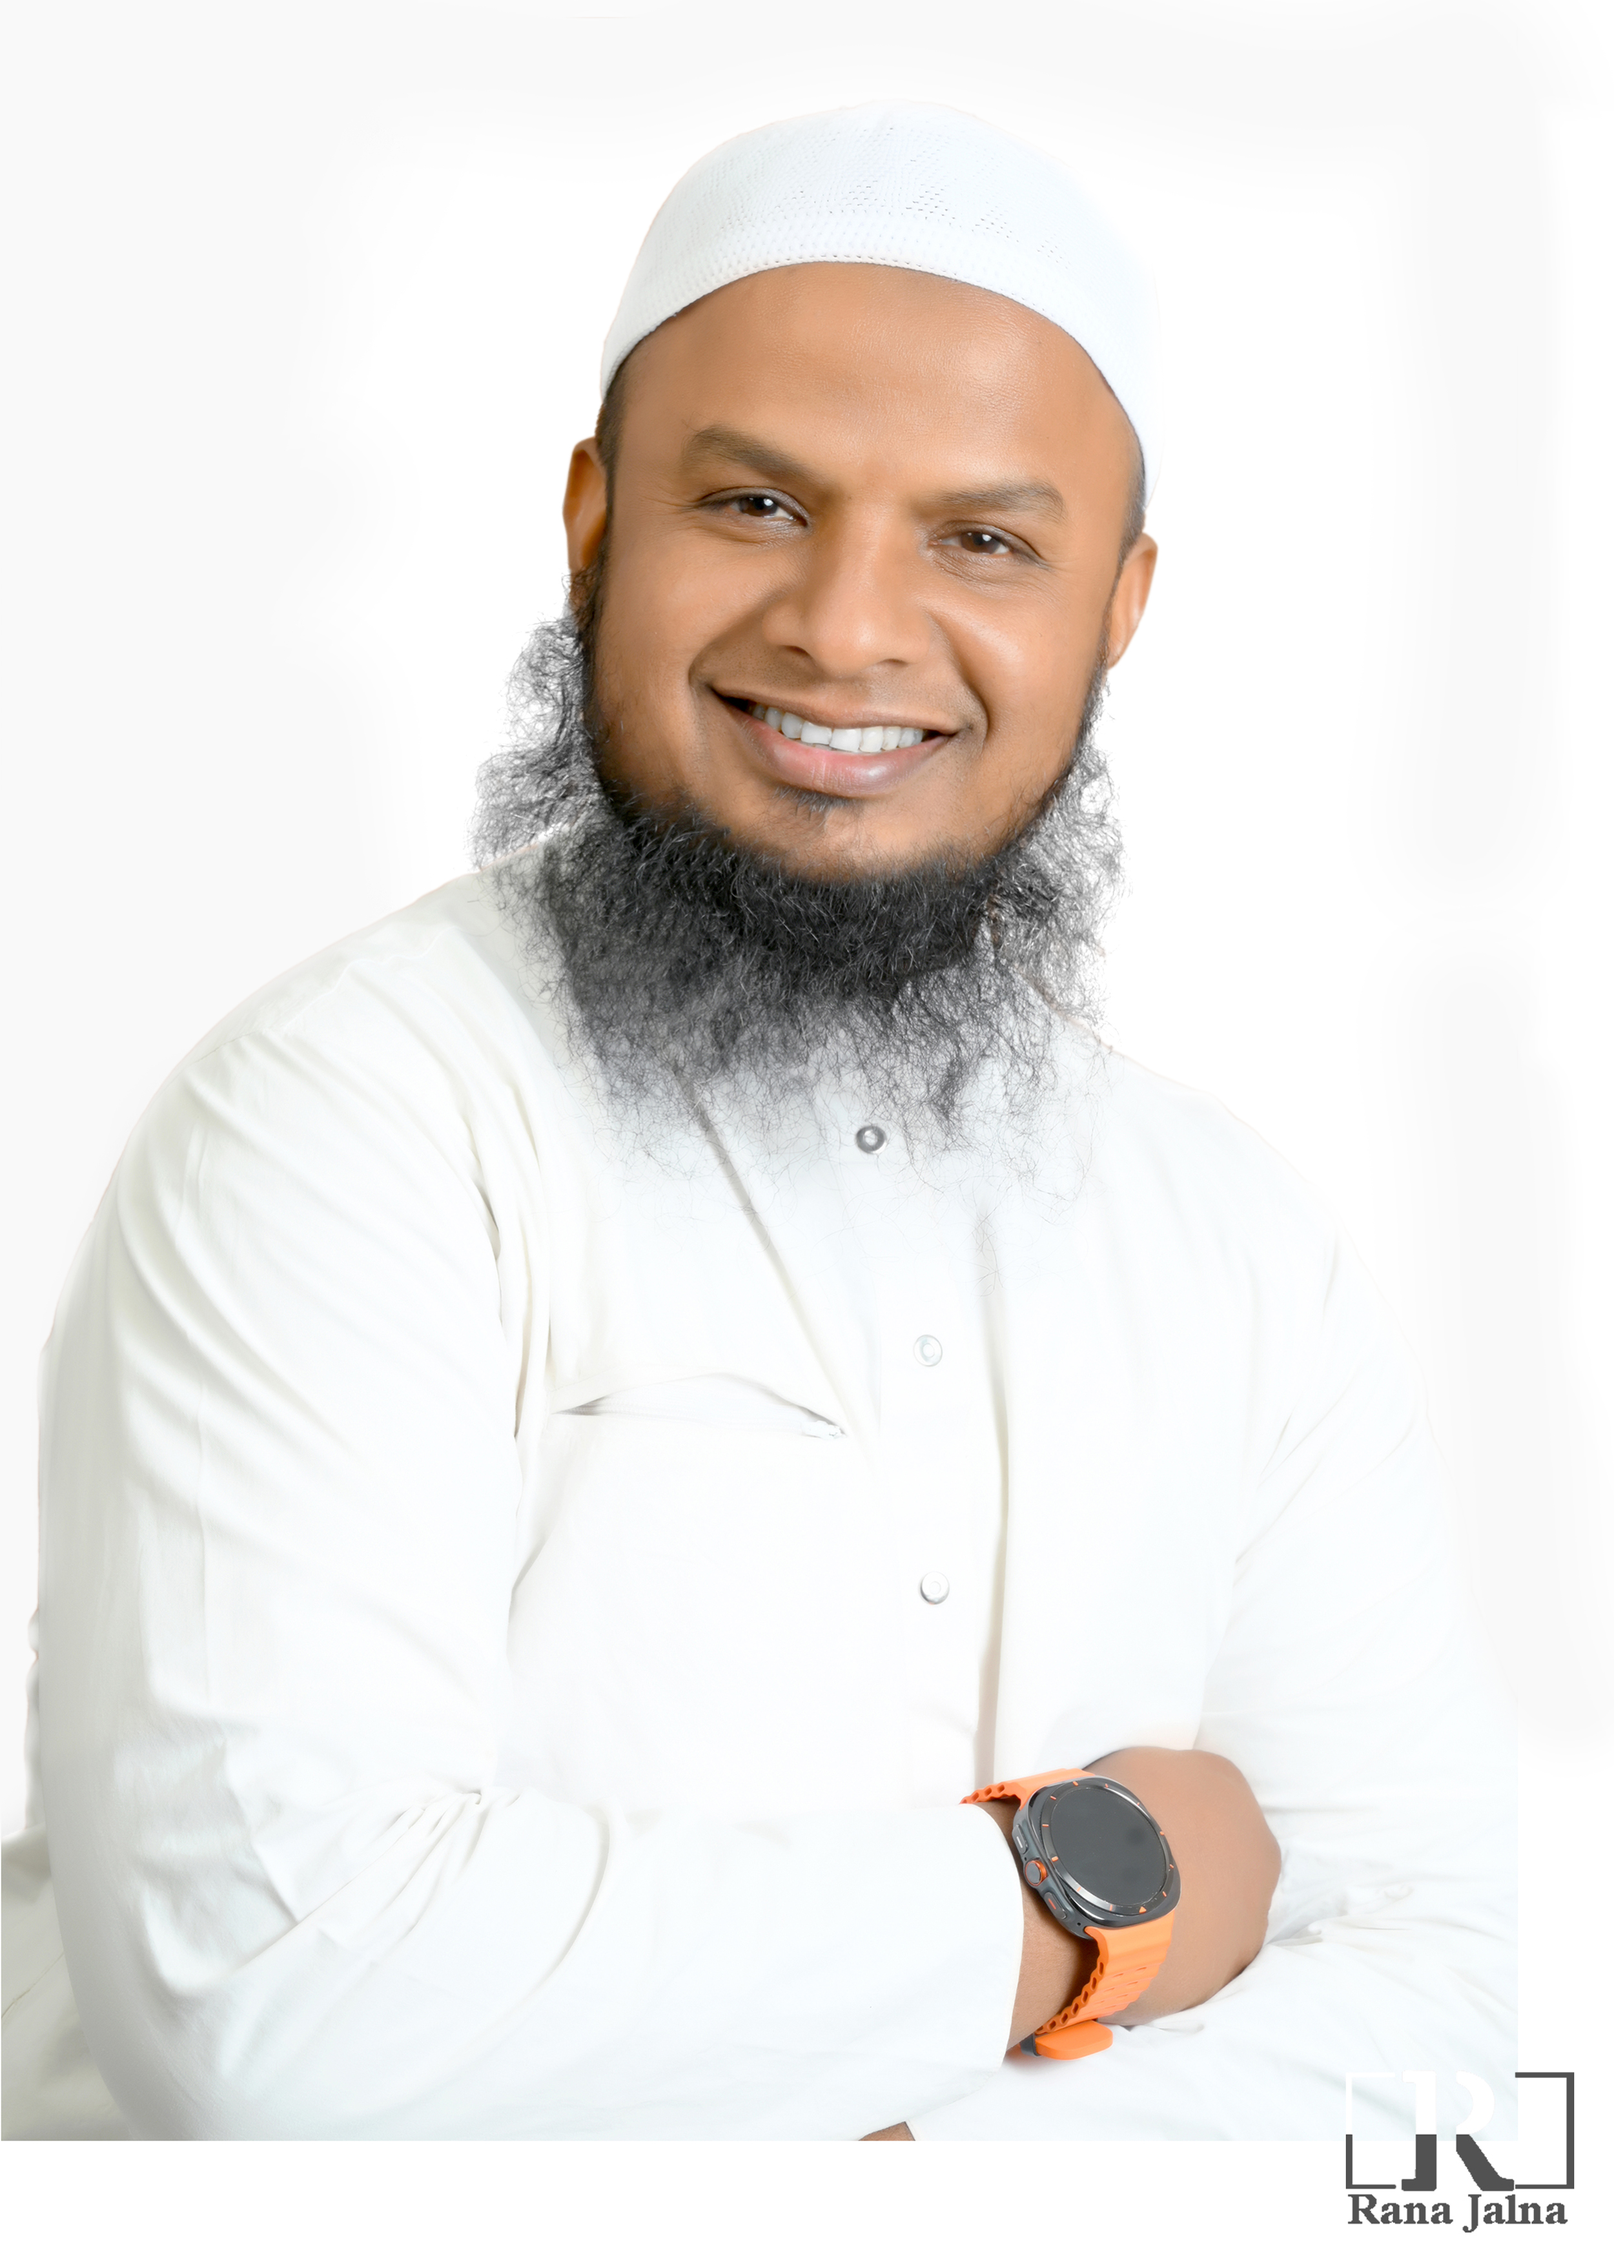
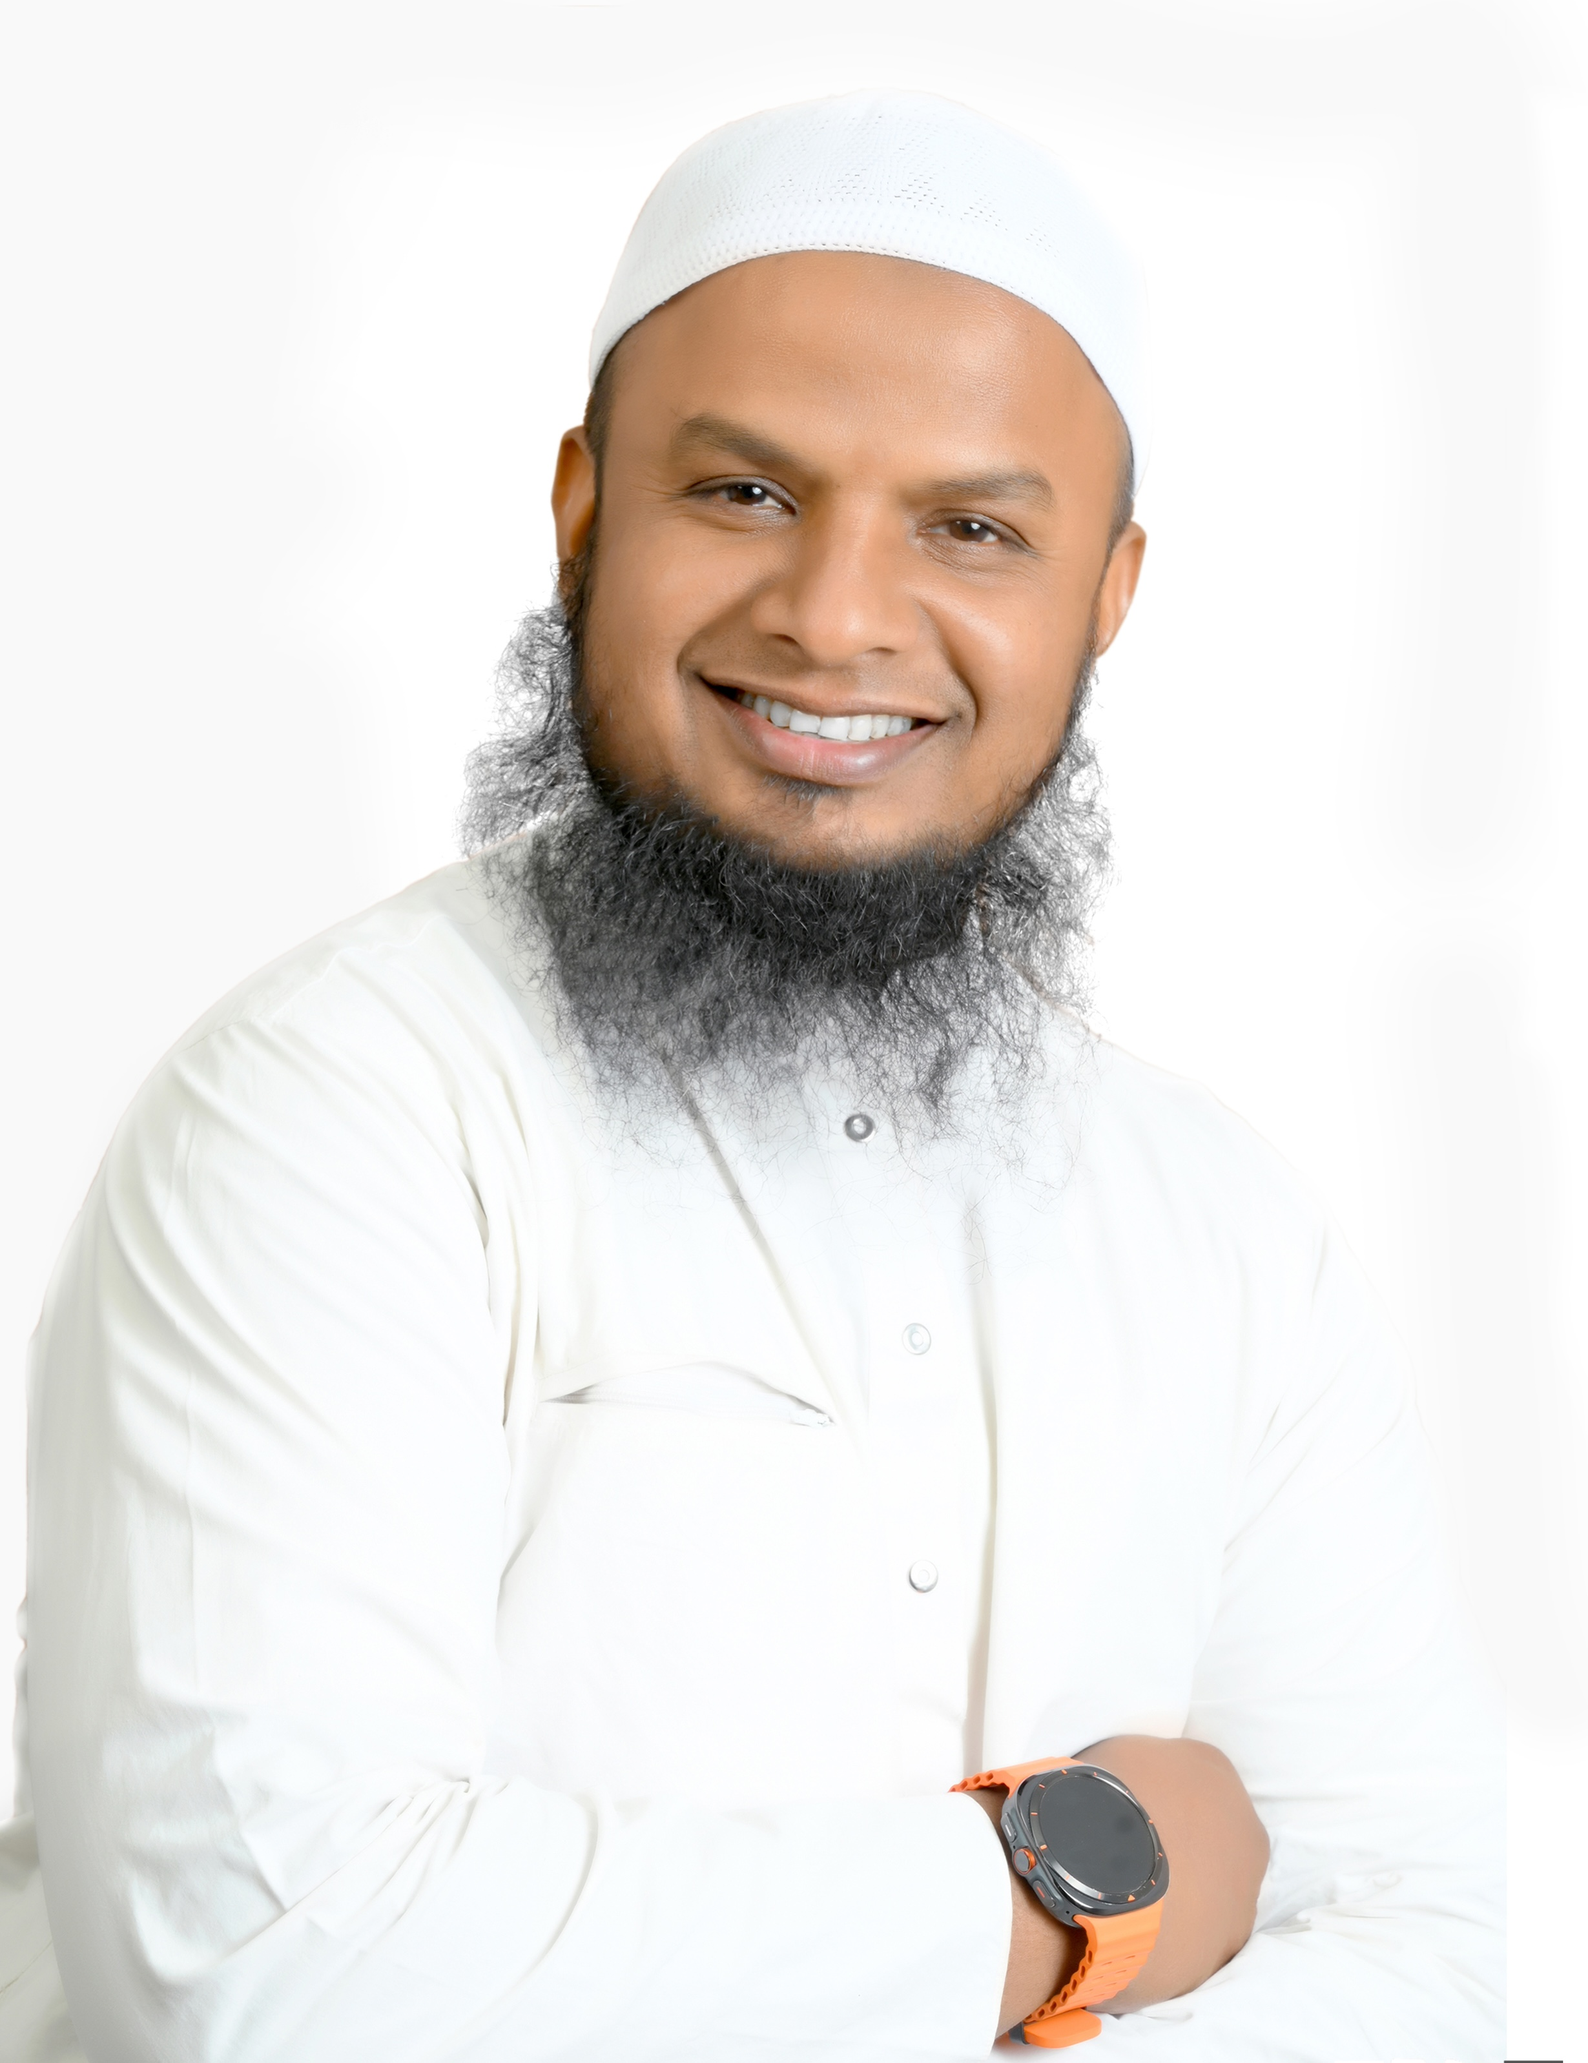
Updated Image and mobile css homepage

diff --git a/src/Components/HomePage/HomePage.css b/src/Components/HomePage/HomePage.css
@@ -271,7 +271,7 @@
     
     .headingContainer {
         position: absolute;
-        bottom: 20%;
+        bottom: 35%;
         left: 0px;
         padding: 0px 10px;
         /* width: 80%; */
